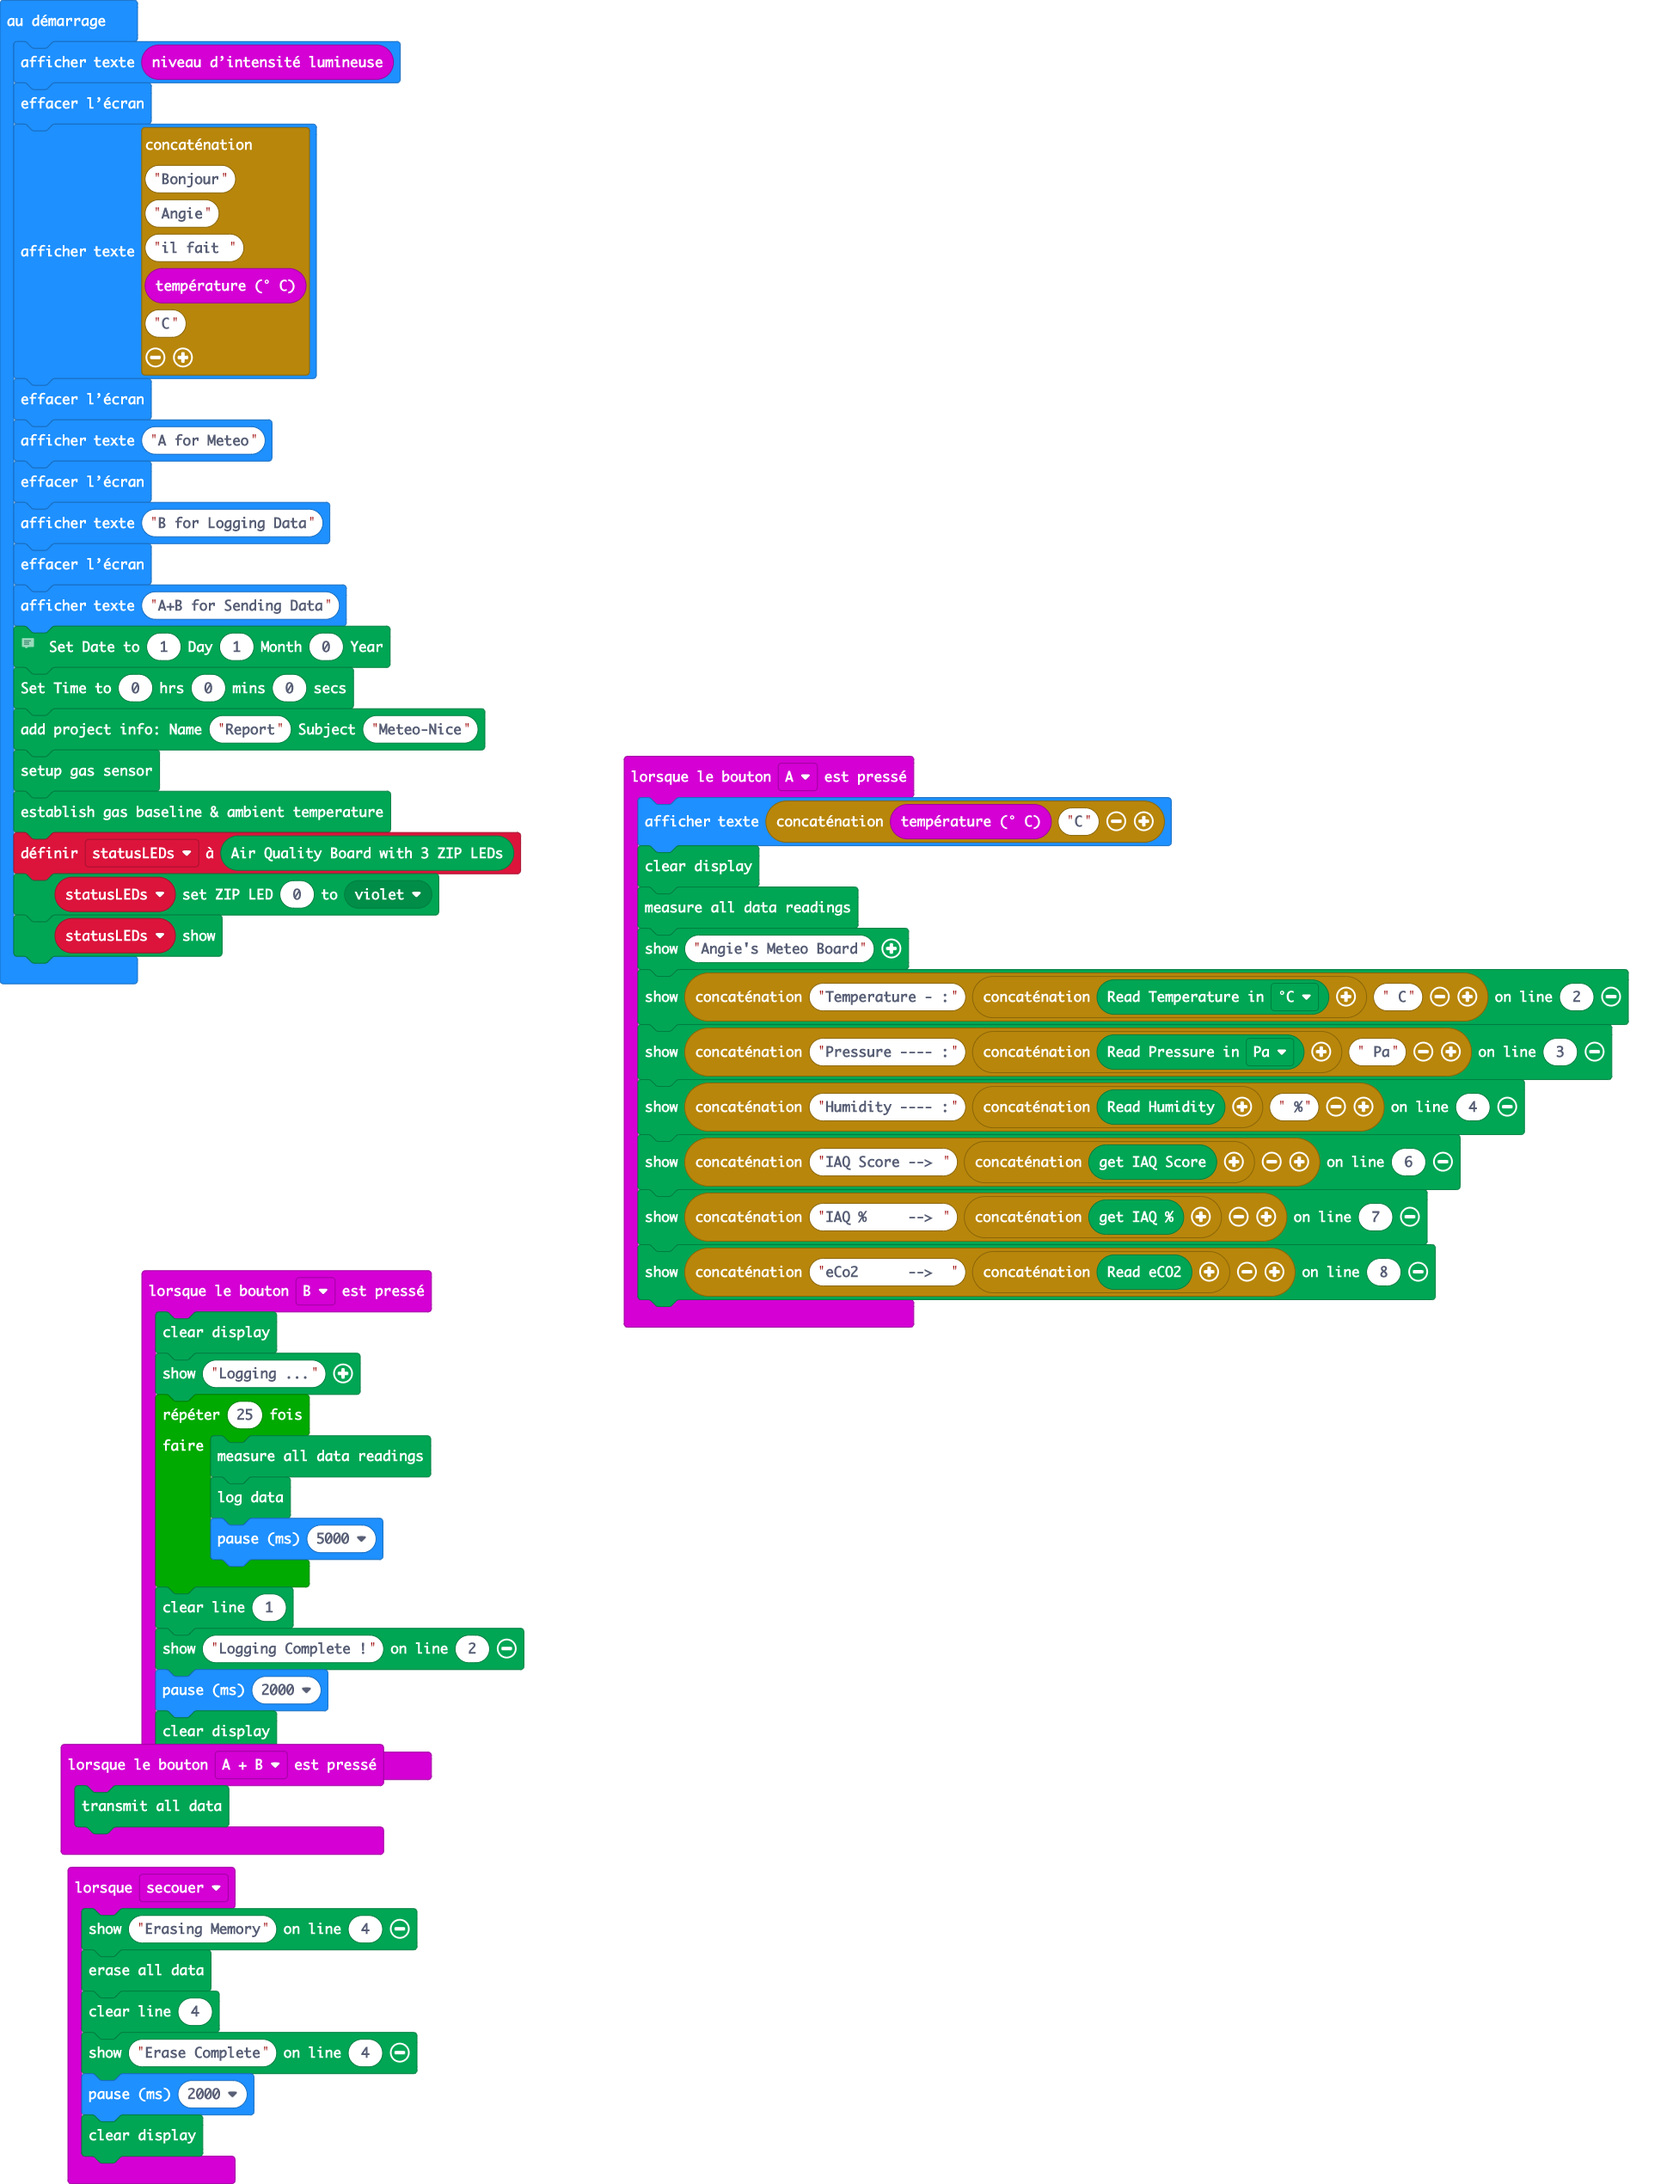
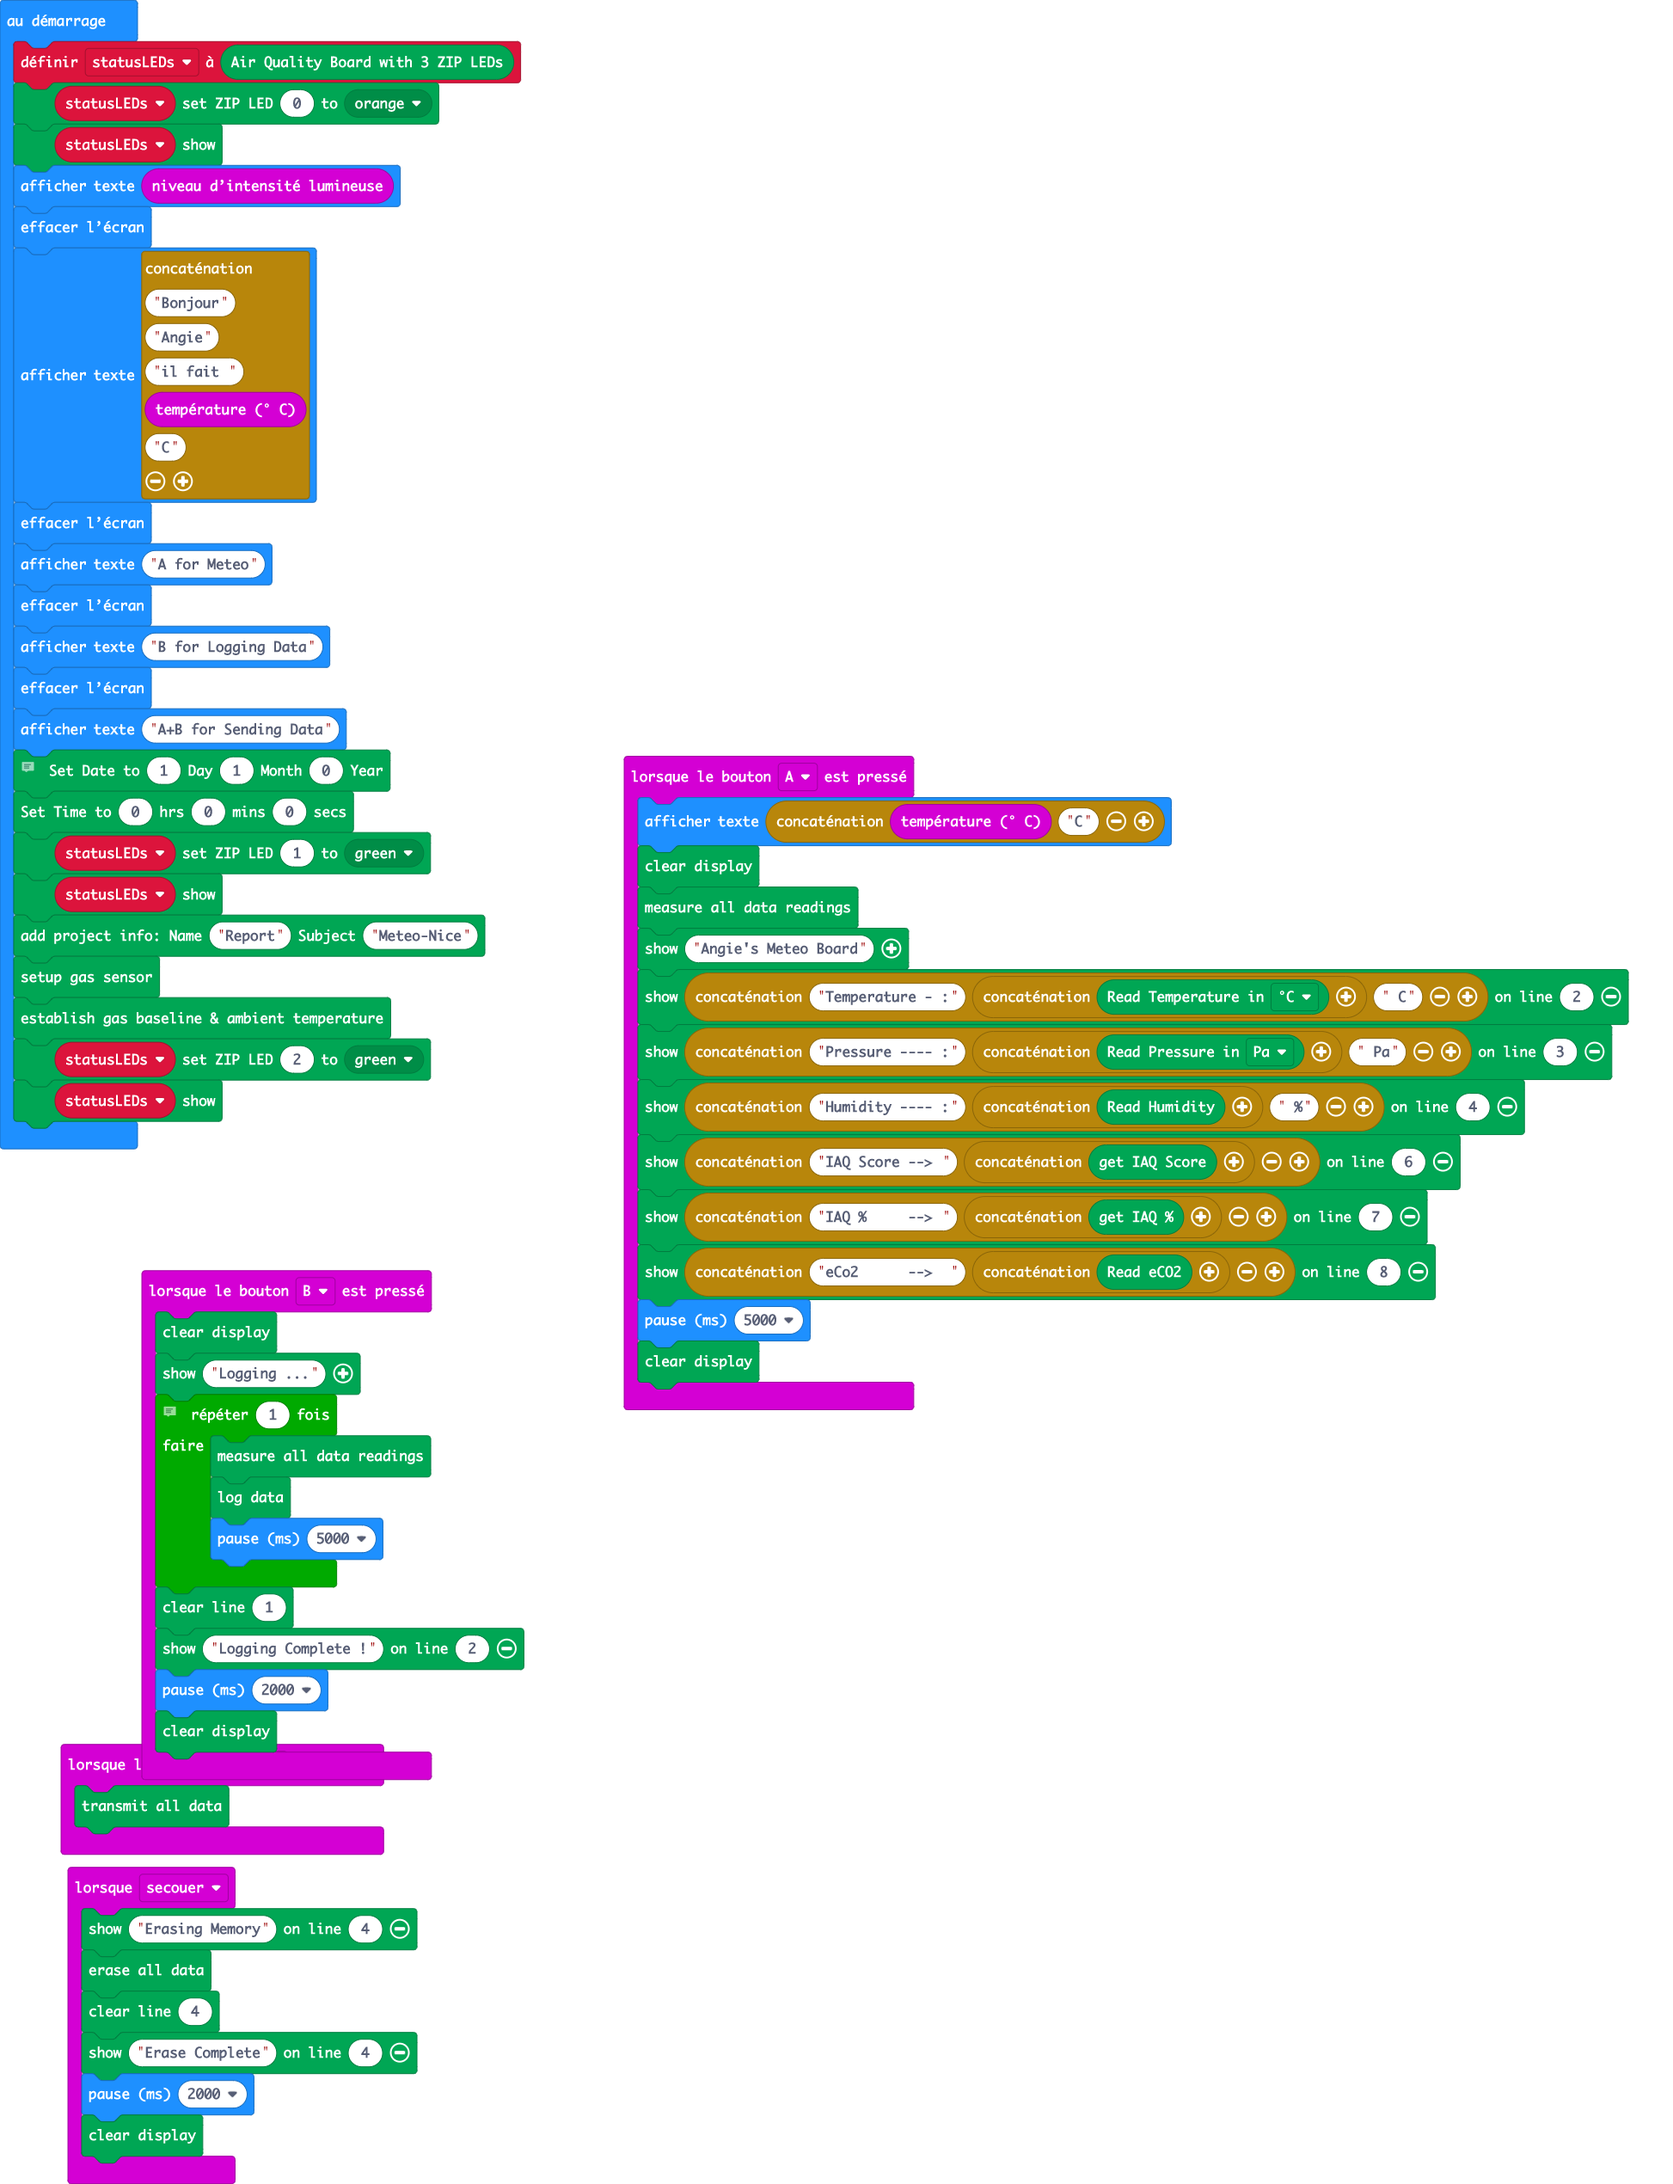
clear screen pages properly

diff --git a/main.ts b/main.ts
@@ -9,6 +9,8 @@ input.onButtonPressed(Button.A, function () {
     kitronik_air_quality.show("IAQ Score --> " + ("" + kitronik_air_quality.getAirQualityScore()), 6)
     kitronik_air_quality.show("IAQ %     --> " + ("" + kitronik_air_quality.getAirQualityPercent()), 7)
     kitronik_air_quality.show("eCo2      -->  " + ("" + kitronik_air_quality.readeCO2()), 8)
+    basic.pause(5000)
+    kitronik_air_quality.clear()
 })
 input.onButtonPressed(Button.AB, function () {
     kitronik_air_quality.sendAllData()
@@ -16,7 +18,8 @@ input.onButtonPressed(Button.AB, function () {
 input.onButtonPressed(Button.B, function () {
     kitronik_air_quality.clear()
     kitronik_air_quality.show("Logging ...")
-    for (let index = 0; index < 25; index++) {
+    // set to 1 time just for debugging
+    for (let index = 0; index < 1; index++) {
         kitronik_air_quality.measureData()
         kitronik_air_quality.logData()
         basic.pause(5000)
@@ -34,6 +37,9 @@ input.onGesture(Gesture.Shake, function () {
     basic.pause(2000)
     kitronik_air_quality.clear()
 })
+let statusLEDs = kitronik_air_quality.createAirQualityZIPDisplay()
+statusLEDs.setZipLedColor(0, kitronik_air_quality.colors(ZipLedColors.Orange))
+statusLEDs.show()
 basic.showString("" + (input.lightLevel()))
 basic.clearScreen()
 basic.showString("Bonjour" + "Angie" + "il fait " + input.temperature() + "C")
@@ -46,9 +52,10 @@ basic.showString("A+B for Sending Data")
 // Date and Time are not really persistant and will be reseted to harcoded values on turn On
 kitronik_air_quality.setDate(1, 1, 0)
 kitronik_air_quality.setTime(0, 0, 0)
+statusLEDs.setZipLedColor(1, kitronik_air_quality.colors(ZipLedColors.Green))
+statusLEDs.show()
 kitronik_air_quality.addProjectInfo("Report", "Meteo-Nice")
 kitronik_air_quality.setupGasSensor()
 kitronik_air_quality.calcBaselines()
-let statusLEDs = kitronik_air_quality.createAirQualityZIPDisplay()
-statusLEDs.setZipLedColor(0, kitronik_air_quality.colors(ZipLedColors.Violet))
+statusLEDs.setZipLedColor(2, kitronik_air_quality.colors(ZipLedColors.Green))
 statusLEDs.show()
